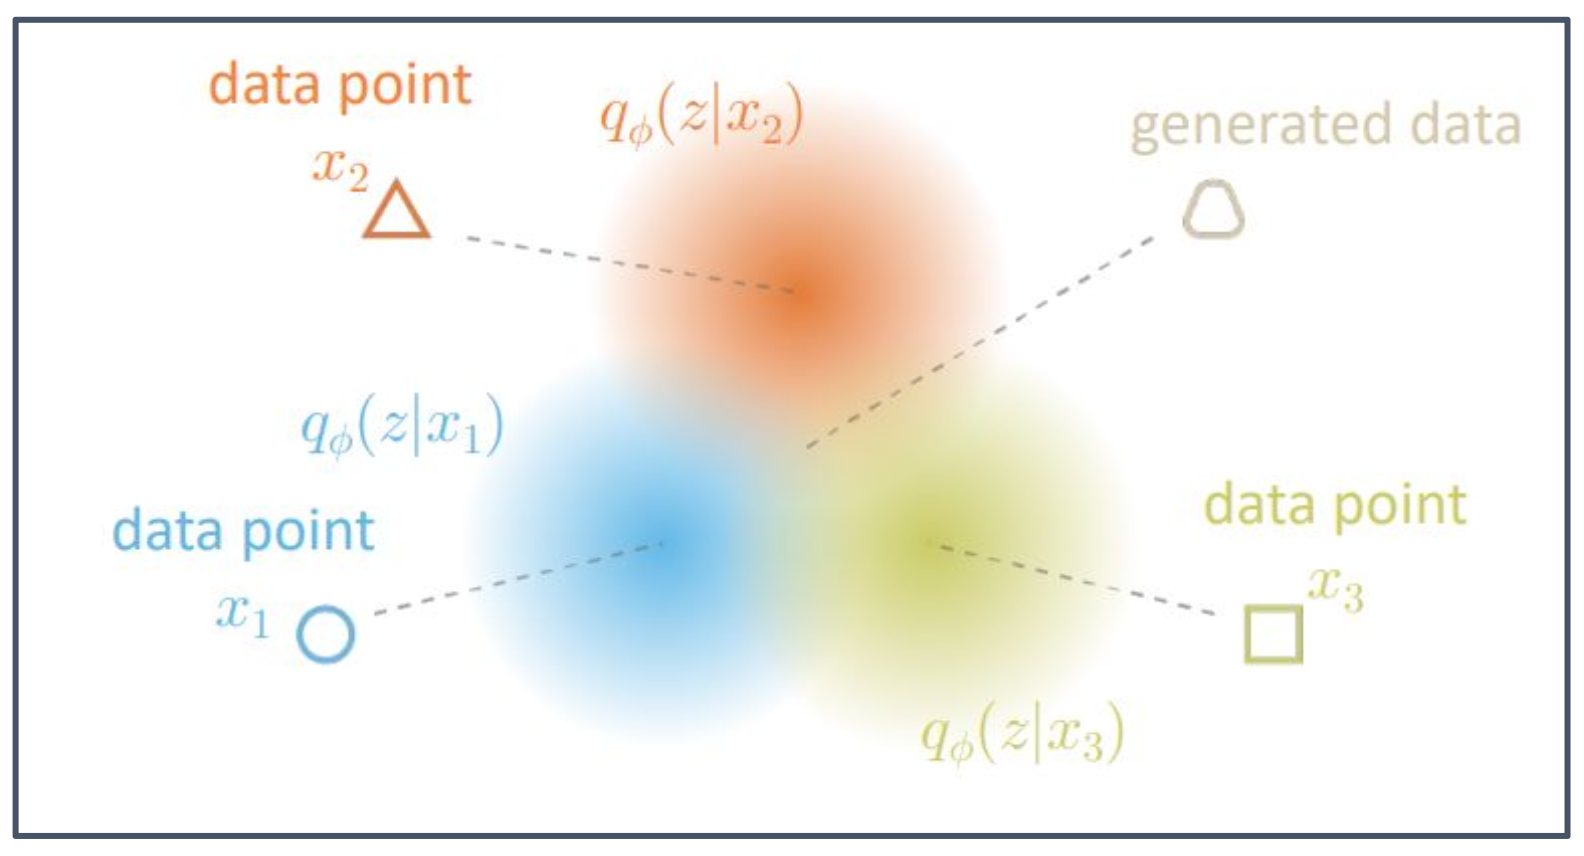
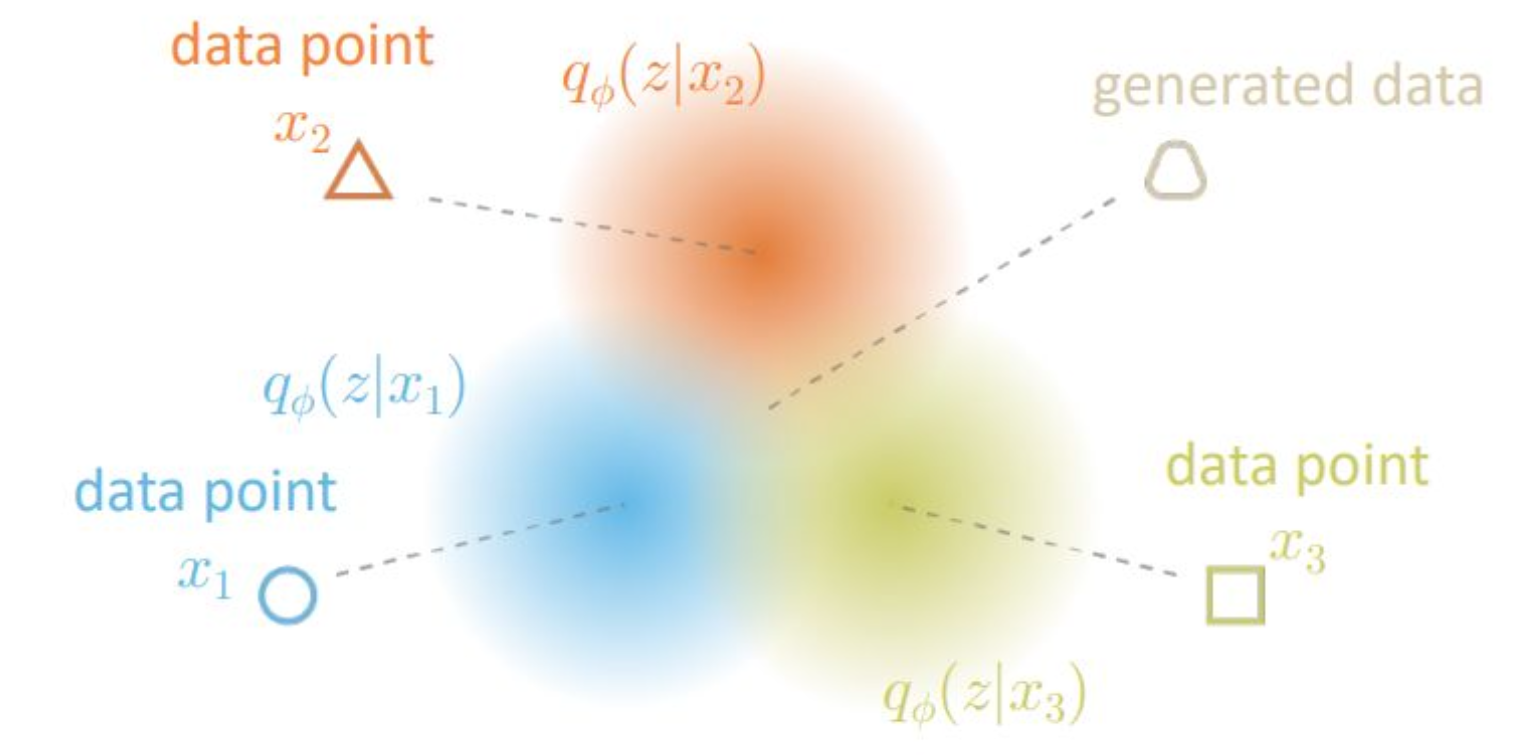
prob

diff --git a/_posts/lecture/probstat/2025-10-28-probstat-9.md b/_posts/lecture/probstat/2025-10-28-probstat-9.md
@@ -12,7 +12,7 @@ tags: []
 
 ## p2. 생성 모델의 일반 개념 (General Concept of Generative Models)  
 
-<img src="/assets/img/lecture/probstat/9/image_1.png" alt="image" width="720px">
+<img src="/assets/img/lecture/probstat/9/image_1.png" alt="image" width="600px">
 
 ---
 
@@ -44,7 +44,7 @@ tags: []
 
 ## p3. 생성 모델의 확률적 표현 (Probabilistic Representation of Generative Models)  
 
-<img src="/assets/img/lecture/probstat/9/image_2.png" alt="image" width="720px">
+<img src="/assets/img/lecture/probstat/9/image_2.png" alt="image" width="600px">
 
 ---
 
@@ -134,7 +134,7 @@ tags: []
 
 ## p5. 직접 접근(Direct Approach)의 학습과 샘플링 과정  
 
-<img src="/assets/img/lecture/probstat/9/image_3.png" alt="image" width="800px">
+<img src="/assets/img/lecture/probstat/9/image_3.png" alt="image" width="600px">
 
 ---
 
@@ -172,7 +172,7 @@ tags: []
 
 ## p6. 간접 접근 (Indirect Approach)  
 
-<img src="/assets/img/lecture/probstat/9/image_4.png" alt="image" width="800px">
+<img src="/assets/img/lecture/probstat/9/image_4.png" alt="image" width="600px">
 
 ---
 
@@ -275,7 +275,7 @@ $$
 
 ## p8. 밀도 기반 모델 (Density-based Models)  
 
-<img src="/assets/img/lecture/probstat/9/image_5.png" alt="image" width="720px">
+<img src="/assets/img/lecture/probstat/9/image_5.png" alt="image" width="600px">
 
 ---
 
@@ -300,7 +300,7 @@ $$
 
 ## p10. 밀도 기반 모델 (Density-based Models)  
 
-<img src="/assets/img/lecture/probstat/9/image_6.png" alt="image" width="720px">
+<img src="/assets/img/lecture/probstat/9/image_6.png" alt="image" width="600px">
 
 ---
 
@@ -647,7 +647,7 @@ $$
 
 ## p17. 잠재 변수 모델 (Latent Variable Model)
 
-<img src="/assets/img/lecture/probstat/9/image_13.png" alt="image" width="800px">
+<img src="/assets/img/lecture/probstat/9/image_13.png" alt="image" width="600px">
 
 ---
 
@@ -669,7 +669,7 @@ $$
 
 ## p18. 계산 불가능한 식에서 계산 가능한 형태로 (From Intractable to Tractable Formulation)
 
-<img src="/assets/img/lecture/probstat/9/image_14.png" alt="image" width="800px">
+<img src="/assets/img/lecture/probstat/9/image_14.png" alt="image" width="720px">
 
 ---
 
@@ -721,7 +721,7 @@ $$
 
 ## p19. 증거 하한 (Evidence Lower Bound, ELBO)
 
-<img src="/assets/img/lecture/probstat/9/image_15.png" alt="image" width="720px">
+<img src="/assets/img/lecture/probstat/9/image_15.png" alt="image" width="600px">
 
 - 이것을 **Evidence Lower Bound (ELBO)** 라고 부른다.  
 - 이는 $\log p_\theta(x)$의 하한(lower bound)이다.  
@@ -731,7 +731,7 @@ $$
 
 ## p20. 매개변수화(Parameterization)
 
-<img src="/assets/img/lecture/probstat/9/image_16.png" alt="image" width="600px">
+<img src="/assets/img/lecture/probstat/9/image_16.png" alt="image" width="500px">
 
 - 이것은 **Evidence Lower Bound (ELBO)** 라고 불린다.  
 - 이는 $\log p_\theta(x)$ 의 하한(lower bound)이다.  
@@ -844,7 +844,7 @@ $$
 
 ## p23. 첫 번째 항: 재구성 손실 (Reconstruction Loss)
 
-<img src="/assets/img/lecture/probstat/9/image_19.png" alt="image" width="720px">
+<img src="/assets/img/lecture/probstat/9/image_19.png" alt="image" width="600px">
 
 **예시: L2 손실 (L2 loss)**  
 
@@ -958,7 +958,7 @@ $$
 
 ## p24. 두 번째 항: 정규화 손실 (Regularization Loss)
 
-<img src="/assets/img/lecture/probstat/9/image_20.png" alt="image" width="720px">
+<img src="/assets/img/lecture/probstat/9/image_20.png" alt="image" width="600px">
 
 **예시: 가우시안 사전분포 (Gaussian prior)**  
 
@@ -1064,10 +1064,8 @@ $$
 
 <img src="/assets/img/lecture/probstat/9/image_22.png" alt="image" width="800px">
 
-가우시안 매개변수들은 신경망의 출력값에 의해 매개변수화되어,  
-중간 조건부 분포들을 근사하기 위해 사용된다!  
-(Gaussian parameters are parameterized by neural network output to  
-approximate intermediate conditional distributions!)
+가우시안 매개변수들은 신경망의 출력값에 의해 매개변수화되어(parameterized),  
+중간 조건부 분포들(intermediate conditional distributions)을 근사하기 위해 사용된다!  
 
 ---
 
@@ -1113,19 +1111,21 @@ approximate intermediate conditional distributions!)
 
 지금까지는 하나의 $x$ 에 대한 목적함수를 논의해왔다:
 
-<img src="/assets/img/lecture/probstat/9/image_23.png" alt="image" width="800px">
+<img src="/assets/img/lecture/probstat/9/image_23.png" alt="image" width="600px">
 
 전체 손실(overall loss)은  
 데이터 분포에 대한 기대값으로 표현된다:
 
-<img src="/assets/img/lecture/probstat/9/image_24.png" alt="image" width="800px">
+<img src="/assets/img/lecture/probstat/9/image_24.png" alt="image" width="600px">
 
 ---
 
 > **1. 단일 데이터 샘플 $x$ 에 대한 손실**  
 > 위의 첫 번째 식은 단일 입력 샘플 $x$ 에 대한 손실 함수 $$\mathcal{L}_{\theta,\phi}(x)$$ 를 정의한 것이다.  
 > 첫 번째 항  
+>
 > $$-\mathbb{E}_{z \sim q_\phi(z \mid x)}[\log p_\theta(x \mid z)]$$  
+>
 > 은 재구성 손실(Reconstruction Loss)로, 디코더가 입력 $x$ 를 얼마나 잘 복원하는지 측정한다.  
 > 두 번째 항 $D_{\mathrm{KL}}(q_\phi(z \mid x)\,\|\,p(z))$ 은 정규화 손실(Regularization Loss)로,  
 > 인코더가 생성한 잠재공간 분포 $q_\phi(z \mid x)$ 가 사전분포 $p(z)$ 와 얼마나 다른지를 측정한다.
@@ -1133,9 +1133,11 @@ approximate intermediate conditional distributions!)
 > **2. 전체 데이터셋에 대한 손실**  
 > 실제 학습에서는 한 개의 샘플이 아니라 데이터셋 전체에 대해 평균 손실을 계산한다.  
 > 손실 함수는 데이터 분포 $p_{\text{data}}(x)$ 에 대한 기대값으로 확장되며  
+>
 > $$
 > \mathbb{E}_{x \sim p_{\text{data}}(x)}[\mathcal{L}_{\theta,\phi}(x)]
 > $$  
+>
 > 으로 표현된다.  
 > 이 기대값은 실질적으로는 미니배치 평균(mini-batch mean)으로 근사되어 학습 중에 최적화된다.
 >
@@ -1207,10 +1209,8 @@ approximate intermediate conditional distributions!)
 ## p29. 개요 (Overview)
 
 - 인코더(encoder): 데이터 분포를 잠재 분포로 매핑함  
-  (maps data distribution to latent distribution)
 
 - 디코더(decoder): 잠재 분포를 데이터 분포로 매핑함  
-  (maps latent distribution to data distribution)
 
 <img src="/assets/img/lecture/probstat/9/image_26.png" alt="image" width="800px">
 
@@ -1301,7 +1301,7 @@ approximate intermediate conditional distributions!)
 
 ## p31. 예시 그림 (Example Illustration)
 
-<img src="/assets/img/lecture/probstat/9/image_28.png" alt="image" width="720px">
+<img src="/assets/img/lecture/probstat/9/image_28.png" alt="image" width="600px">
 
 - 각 데이터 포인트 $x_1$, $x_2$, $x_3$ 는  
   인코더 $q_\phi(z \mid x)$ 를 통해  

diff --git a/_posts/lecture/probstat/2025-11-12-probstat-12.md b/_posts/lecture/probstat/2025-11-12-probstat-12.md
@@ -14,11 +14,52 @@ tags: []
 
 <img src="/assets/img/lecture/probstat/12/image_1.png" alt="image" width="600px">
 
+> **강의 내용**  
+> 
+> 먼저 리뷰를 해봅시다.  
+> 여러분들은 아마 이미지 classification이 어떤 건지에 대해서는 다 알고 계실 거라고 생각을 해요.  
+> 이미지 classification 같은 경우는  
+> 인풋의 이미지, 뭐 3D 이미지가 될 수도 있고 2D 이미지가 될 수도 있고  
+> 이미지 형태의 데이터가 들어왔을 때 classifier가 존재해서,  
+> classifier가 최종적으로 레이블을 아웃풋으로 만들어 내는 거  
+> 그게 이미지 classification 모델의 정의였습니다.  
+> classifier라고 하는 뉴럴 네트워크가  
+> 이 주어진 이미지를 컨볼루셔널한 오퍼레이션을 통해  
+> 실질적으로 레이블이 어떻게 되는지에 대해서 평가를 하는 거죠.  
+> 그래서 이 레이블은 랭귀지 토큰이 될 수도 있고  
+> 전통적인 classification 모델이라고 한다면 원핫 벡터라고 해서  
+> 예를 들어서 클래스가 천 개가 있다고 하면 그 천 차원짜리의 벡터에  
+> 각각의 해당되는 컴포넌트만 1이고 나머지 부분은 0인  
+> 원핫 벡터를 통해 가지고 classification을 하곤 합니다.
+
 ---
 
 ## p3. Review : Image Generation
 
-<img src="/assets/img/lecture/probstat/12/image_2.png" alt="image" width="600px">
+<img src="/assets/img/lecture/probstat/12/image_2.png" alt="image" width="600px">  
+
+> **강의 내용**  
+> 
+> 그러면 이제 이미지 제네레이션이라는 게 무엇이냐 하면  
+> 이전 시간에 우리가 VAE를 통해 가지고 어느 정도 맛을 봤지만 그것은 언컨디셔널한 거였죠.  
+> 가우시안 랜덤 베리어블을 가지고 디코더를 통해 생성하는 게 VAE의 목적이었는데  
+> 예를 들어서 컨디셔널한 제네레이션을 생각을 해보죠.  
+> Fish라는 랭귀지 토큰 혹은 원핫 벡터가 존재할 때  
+> 제네레이터가 그 레이블 인포메이션을 가지고 그것에 해당하는 어떤 이미지를 생성해야 되는 겁니다.  
+> 그래서 우리가 하는 생성 모델, 특히 멀티모달 생성 모델들은  
+> 이미지 classification의 역순에 해당하는,  
+> 그 프로세스를 역으로 돌리는 것에 해당하는 거다 라고 생각하시면 될 것 같고.  
+> 이제 여기에서 중요한 것은 뉴럴 네트워크 스트럭처라고 하죠.  
+> classifier 같은 경우는 큰 이미지를 컨볼루션 레이어를 통해  
+> 점차적으로 피쳐맵들이 작아지면서 최종적으로 레이블을 뱉게 되거든요.  
+> 그런데 VAE 스트럭처를 깊게 살펴보시면 이해를 하실 거라 생각을 하는데  
+> 디코더도 마찬가지로 그렇게 생겼습니다. 역순으로 생겼습니다.  
+> 디코더 스트럭처에 이런 레이블이 들어가거나 레이턴트 인포메이션이 들어가면  
+> 작은 정보들을 좀 더 키워나가면서 최종적으로 이미지 resolution에 맞게  
+> 그렇게 뉴럴 네트워크가 구성이 되어 있었죠.  
+> 그런 부분들이 classification과 제네레이션의 차이이고  
+> 그렇기 때문에 이런 구조상의 특징점으로 인해서 제너레이터 뉴럴 네트워크 아키텍쳐가 구성이 됐다.  
+> 이런 히스토리컬한 컨텍스트가 있다고 이해를 해주시면 될 것 같습니다.
 
 ---
 
